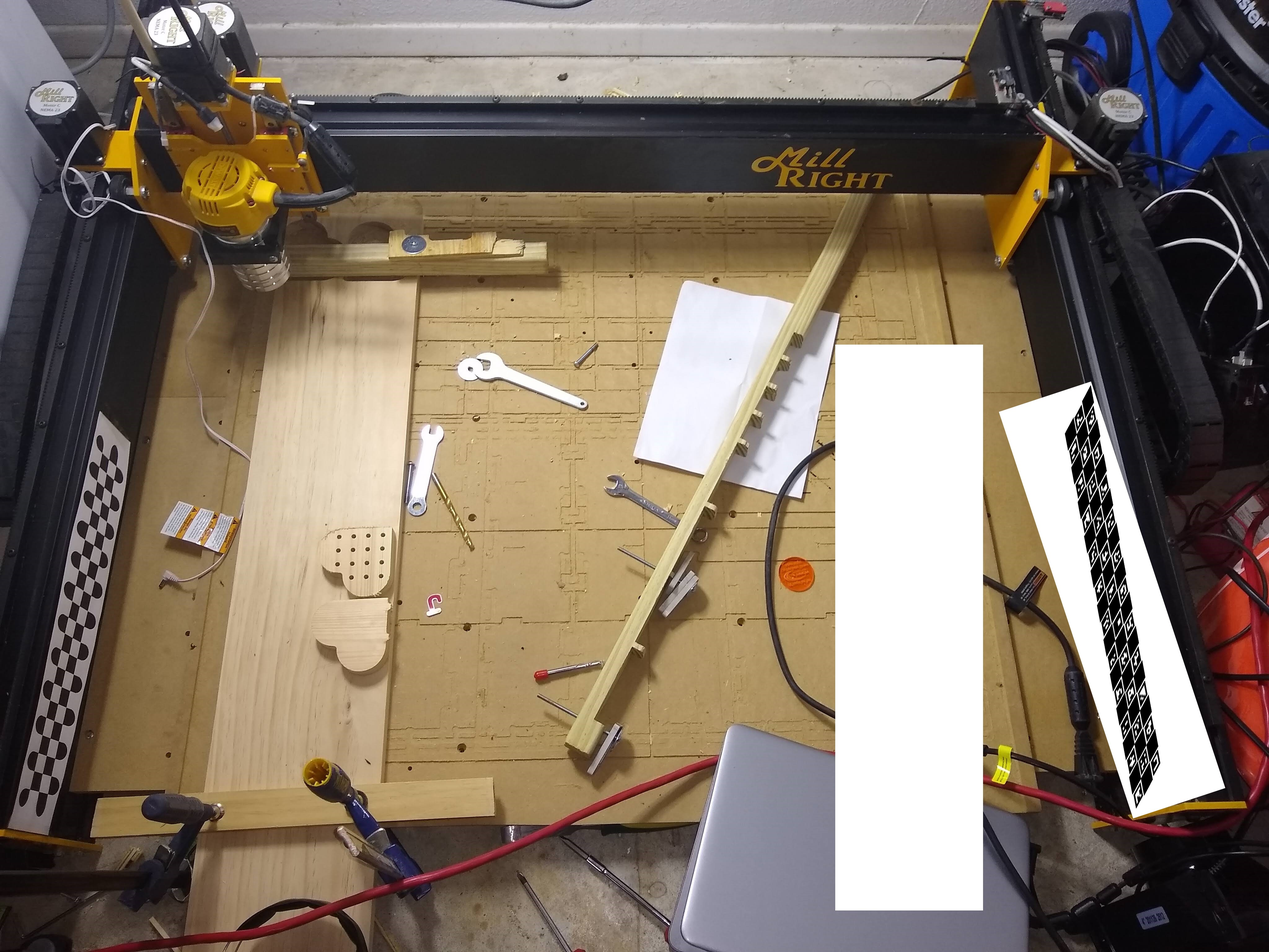
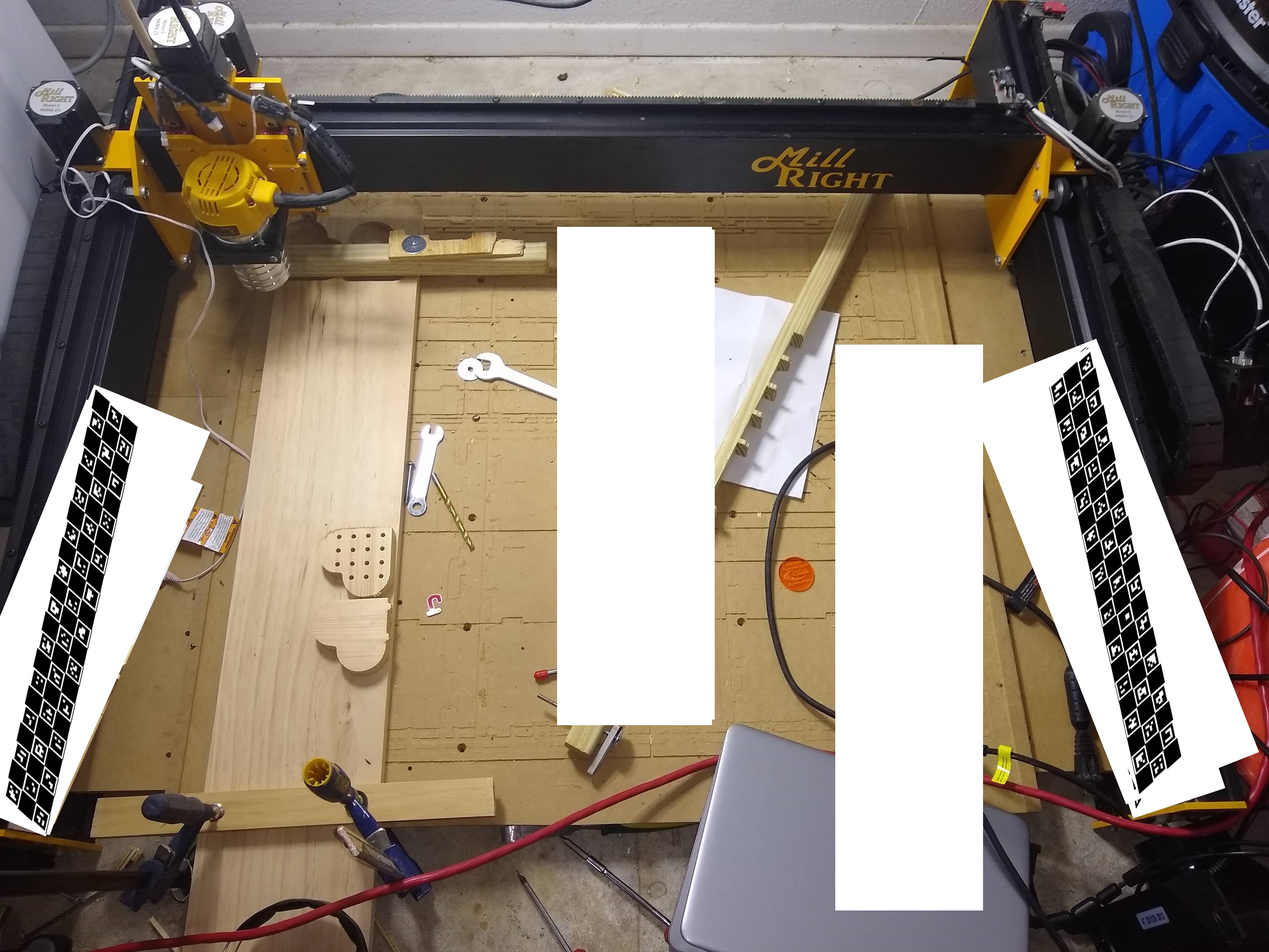
left right detection working somewhat, need to refine what points corespond to real world points better

Changed region(s): [[0.4375, 0.2188, 0.5625, 0.7812], [0.75, 0.3438, 1.0, 0.8438], [0.0, 0.4062, 0.1875, 0.875]]

diff --git a/realWorldGcodeSender.py b/realWorldGcodeSender.py
@@ -262,59 +262,147 @@ def crop_half_vertically(img):
   right = img[:, width_cutoff:]
   return left, right
 
-def idToLoc(ID):
-  loc = [ID % 11, int(ID / 11)]
-  if loc[1] % 2 == 0:
-    loc[0] = loc[0]*2 + 1
-  else:
-    loc[0] = loc[0]*2
+#First ID is upper right, which is most positive Z and most positice Y
+# Z, Y
+idToLocDict = {0 :[2,21],
+               1 :[2,19],
+               2 :[2,17],
+               3 :[2,16],
+               4 :[2,13],
+               5 :[2,11],
+               6 :[2, 9],
+               7 :[2, 7],
+               8 :[2, 5],
+               9 :[2, 3],
+               10:[2, 1],
+               11:[1, 20],
+               12:[1, 18],
+               13:[1, 16],
+               14:[1, 14],
+               15:[1, 12],
+               16:[1, 10],
+               17:[1,  8],
+               18:[1,  6],
+               19:[1,  4],
+               20:[1,  2],
+               21:[1,  0],
+               22:[0,  21],
+               23:[0,  19],
+               24:[0,  17],
+               25:[0,  15],
+               26:[0,  13],
+               27:[0,  11],
+               28:[0,   9],
+               29:[0,   7],
+               30:[0,   5],
+               31:[0,   3],
+               32:[0,   1],
+               33:[0,  20],
+               34:[0,  18],
+               35:[0,  16],
+               36:[0,  14],
+               37:[0,  12],
+               38:[0,  10],
+               39:[0,   8],
+               40:[0,   6],
+               41:[0,   4],
+               42:[0,   2],
+               43:[0,   0],
+               44:[1,  21],
+               45:[1,  19],
+               46:[1,  17],
+               47:[1,  15],
+               48:[1,  13],
+               49:[1,  11],
+               50:[1,   9],
+               51:[1,   7],
+               52:[1,   5],
+               53:[1,   3],
+               54:[1,   1],
+               55:[2,  20],
+               56:[2,  18],
+               57:[2,  16],
+               58:[2,  14],
+               59:[2,  12],
+               60:[2,  10],
+               61:[2,   8],
+               62:[2,   6],
+               63:[2,   4],
+               64:[2,   2],
+               65:[2,   0]}
 
-  return loc
-def generate_dest_locations2(boxWidth, corners, ids, image):
-  newCorners = []
+def idToLoc(ID):
+  return idToLocDict[ID]
+
+def boxes_to_point_and_location_list(boxes, ids, boxWidth, image, rightSide = False):
+  pointList = []
   locations = []
-  for box, curId in zip(corners, ids):
-    print("curId: " + str(curId[0]))
-    print("box" + str(box))
-    print()
-    boxLoc = idToLoc(curId[0])
+  for box, ID in zip(boxes, ids):
+    #IDs above 33 are on right side, skip those if looking for left side points
+    if rightSide == False and ID >= 33:
+      continue
+    elif rightSide == True and ID < 33:
+      continue
+    boxLoc = idToLoc(ID[0])
     for boxPoints in box:
-      print("boxPoints:" + str(boxPoints))
-      print()
-      prevX = int(boxPoints[0][0]) - 200
+      prevX = int(boxPoints[0][0])
       prevY = int(boxPoints[0][1])
       i = 0
+   
+      font                   = cv2.FONT_HERSHEY_SIMPLEX
+      bottomLeftCornerOfText = prevX + 100,prevY
+      fontScale              = 1
+      fontColor              = (125,135,125)
+      thickness              = 3
+      lineType               = 2
+
+      cv2.putText(image,str(ID[0]), 
+          bottomLeftCornerOfText, 
+          font, 
+          fontScale,
+          fontColor,
+          thickness,
+          lineType)
       for point in boxPoints:
-        x= int(point[0])
-        y= int(point[1])
-        print("point:" + str(point))
-        print()
-        newCorners.append(point)
-        image = cv2.arrowedLine(image, (prevX,prevY), (x,y),
-                                (200,0,0), 5)
-        print(boxLoc)
+        ############################################
+        # Generate list of points
+        ############################################
+        pointList.append(point)
+
+        
+        ############################################
+        # Generate point location based on boxWidth and index within box
+        ############################################
         curLoc = [0,0]
         if i == 0:
           curLoc[0] = boxLoc[0] + 0
           curLoc[1] = boxLoc[1] + 0
         elif i ==1:
-          curLoc[0] = boxLoc[0] + 1
-          curLoc[1] = boxLoc[1] + 0
-        elif i == 2:
-          curLoc[0] = boxLoc[0] + 1
-          curLoc[1] = boxLoc[1] + 1
-        else:
           curLoc[0] = boxLoc[0] + 0
-          curLoc[1] = boxLoc[1] + 1
+          curLoc[1] = boxLoc[1] - 1
+        elif i == 2:
+          curLoc[0] = boxLoc[0] - 1
+          curLoc[1] = boxLoc[1] - 1
+        else:
+          curLoc[0] = boxLoc[0] - 1
+          curLoc[1] = boxLoc[1] + 0
         curLoc[0] = curLoc[0] * boxWidth
         curLoc[1] = curLoc[1] * boxWidth
-        print("curLoc" + str(curLoc))
         locations.append(curLoc)
+
+        ############################################
+        # Display points on image
+        ############################################
+        x= int(point[0])
+        y= int(point[1])
+        image = cv2.arrowedLine(image, (prevX,prevY), (x,y),
+                                (100,0,0), 5)
+
         prevX = x
         prevY = y
         i = i + 1
-  corners = np.array(newCorners)
-  return corners, locations, image
+        
+  return np.array(pointList), locations, image
 
 def generate_dest_locations(boxWidth, corners, image):
   prevX=2000
@@ -341,7 +429,7 @@ def generate_dest_locations(boxWidth, corners, image):
   return locations, image
 
 def pixel_loc_at_cnc_bed(boxWidth, backward):
-  return cv2.perspectiveTransform(np.array([[0,0],[boxWidth*8,0],[boxWidth * 8,boxWidth*22],[0,boxWidth*22]]).reshape(-1,1,2), backward)
+  return cv2.perspectiveTransform(np.array([[0,boxWidth*22],[boxWidth*8,boxWidth*22],[boxWidth * 8,-boxWidth*22],[0,-boxWidth*22]]).reshape(-1,1,2), backward)
 
 
 #############################################################################
@@ -364,6 +452,7 @@ contours = []
 while len(contours) != 8:
   # Capture frame-by-frame
   #ret, frame = cap.read()
+  boxWidth = 32.8125
   frame = cv2.imread('cnc2.jpeg')
   img = cv2.imread('cnc2.jpeg')
 
@@ -374,76 +463,55 @@ while len(contours) != 8:
   #######################################################################
   # Get grayscale image above threshold
   #######################################################################
-  #mask = cv2.inRange(frame, (150, 150, 150), (255, 255, 255))
-  #frame = cv2.bitwise_and(frame, frame, mask=mask)
   gray = cv2.cvtColor(frame, cv2.COLOR_BGR2GRAY)
-  gray1,gray2 = crop_half_vertically(gray)
-  gray = gray2
-  gray = cv2.resize(gray, (int(sys.argv[1]), int(sys.argv[2])))
-  #gray = cv2.resize(gray, (1000, int(gray.shape[1]/3.25)))
+  #gray1,gray2 = crop_half_vertically(gray)
+  #gray = gray2
+  #gray = cv2.resize(gray, (int(sys.argv[1]), int(sys.argv[2])))
 
-  #ret, corners = cv2.findChessboardCorners(gray, (3, 22), None)
-  print(gray.shape)
-  forward, status = cv2.findHomography(np.array([[0,500],[1500,0],[1500,1000],[0,1500]]), \
-                                                np.array([[0,0],[4000,0],[4000,1500],[0,1500]]))
-  #gray = cv2.warpPerspective(gray, forward, (int(4000), int(1500)))
+  ########################################
+  # Get arco box information
+  ########################################
+  boxes, ids, rejectedImgPoints = cv2.aruco.detectMarkers(gray, cv2.aruco.Dictionary_get(cv2.aruco.DICT_4X4_50))
+  print(boxes)
+  print(ids)
 
-  corners, ids, rejectedImgPoints = cv2.aruco.detectMarkers(gray, cv2.aruco.Dictionary_get(cv2.aruco.DICT_4X4_50))
-  #print(ids)
-  #newCorners = []
-  #for corner in corners:
-  #  for point in corner:
-  #    for p in point:
-  #      print(p)
-  #      newCorners.append(p)
-  #corners = np.array(newCorners)
-  #print("corners")
-  #print(corners)
+  ########################################
+  # Transform output into list of points and physical locations of those points
+  ########################################
+  pixelLoc = [None]*2
+  locations = [None]*2
+  pixelToPhysicalLoc = [None]*2
+  physicalToPixelLoc = [None]*2
+  pixelsAtBed = [None]*2
 
-  boxWidth = 32.8125
+  for i in range(0, 2):
+    pixelLoc[i],  locations[i],  gray = boxes_to_point_and_location_list(boxes, ids, boxWidth, gray, i == 1)
+    print(locations[i])
 
-  #Generate destination locations
-  corners, locations, gray = generate_dest_locations2(boxWidth, corners, ids, gray)
-  #adasdfasdf
+    ########################################
+    #Determine forward and backward transformation through homography
+    ########################################
+    pixelToPhysicalLoc[i], status = cv2.findHomography(np.array(pixelLoc[i]), np.array(locations[i]))
+    physicalToPixelLoc[i], status    = cv2.findHomography(np.array(locations[i]), np.array(pixelLoc[i]))
+    #im_out = cv2.warpPerspective(gray, forward, (int(800), int(600)))
+    #cv2.rectangle(im_out, (int(32.8125*7),int(32.8125*1)),(int(32.8125*8),int(32.8125*2)),(255,0,0),-1)
 
-  #locations, gray = generate_dest_locations(boxWidth, corners, gray)
-  #gray = cv2.resize(gray, (int(gray.shape[0]/2.25), int(gray.shape[1]/2.25)))
-  #cv2.imshow('image',gray)
-  #cv2.waitKey()
-  #asdfasdf
-  print(np.array(corners).shape)
-  print(np.array(locations).shape)
-
-  #Determine forward and backware transformation through homography
-  forward, status = cv2.findHomography(np.array(corners), np.array(locations))
-  backward, status = cv2.findHomography(np.array(locations), np.array(corners))
-  
-  im_out = cv2.warpPerspective(gray, forward, (int(800), int(1200)))
-  cv2.rectangle(im_out, (int(32.8125*7),int(32.8125*1)),(int(32.8125*8),int(32.8125*2)),(255,0,0),-1)
-
-  pixelsAtBed = pixel_loc_at_cnc_bed(boxWidth, backward)
-  #out = cv2.perspectiveTransform(np.array([[32.8125*7,32.8125*1],[32.8125*8,32.8125*1],[32.8125*8,32.8125*2],[32.8125*7,32.8125*2]]).reshape(-1,1,2), backward)
-  line1 = tuple(pixelsAtBed[0][0].astype(np.int))
-  line2   = tuple(pixelsAtBed[1][0].astype(np.int))
-  line3   = tuple(pixelsAtBed[2][0].astype(np.int))
-  line4   = tuple(pixelsAtBed[3][0].astype(np.int))
-  print(line1)
-  print(line2)
-  print(line3)
-  print(line4)
-  cv2.line(gray, line1,line2,(125,0,0),3)
-  cv2.line(gray, line2,line3,(155,0,0),3)
-  cv2.line(gray, line3,line4,(155,0,0),3)
-  cv2.line(gray, line4,line1,(155,0,0),3)
+    pixelsAtBed[i] = pixel_loc_at_cnc_bed(boxWidth, physicalToPixelLoc[i])
+    #out = cv2.perspectiveTransform(np.array([[32.8125*7,32.8125*1],[32.8125*8,32.8125*1],[32.8125*8,32.8125*2],[32.8125*7,32.8125*2]]).reshape(-1,1,2), backward)
+    line1 = tuple(pixelsAtBed[i][0][0].astype(np.int))
+    line2   = tuple(pixelsAtBed[i][1][0].astype(np.int))
+    line3   = tuple(pixelsAtBed[i][2][0].astype(np.int))
+    line4   = tuple(pixelsAtBed[i][3][0].astype(np.int))
+    cv2.line(gray, line1,line2,(125,0,0),3)
+    cv2.line(gray, line2,line3,(155,0,0),3)
+    cv2.line(gray, line3,line4,(155,0,0),3)
+    cv2.line(gray, line4,line1,(155,0,0),3)
 
   
-  cv2.imshow('dst',im_out)
+  #cv2.imshow('dst',im_out)
   gray = cv2.resize(gray, (1280, 800))
-  
   cv2.imshow('image',gray)
   cv2.waitKey()
-  #gray = blackWhite
-  print(gray.shape)
   
   #######################################################################
   # filter out noise
